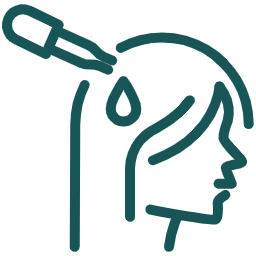
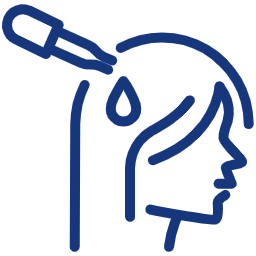
fix

Changed region(s): [[0.0, 0.0, 1.0, 1.0], [0.25, 0.3125, 0.3438, 1.0], [0.4062, 0.2812, 0.5625, 0.5]]

diff --git a/index.html b/index.html
@@ -4,12 +4,7 @@
 <head>
   <!-- Site Title-->
   <title>Home</title>
-  <meta name="format-detection" content="telephone=no">
-  <meta name="viewport"
-    content="width=device-width, height=device-height, initial-scale=1.0, maximum-scale=1.0, user-scalable=0">
-  <meta http-equiv="X-UA-Compatible" content="IE=edge">
-  <meta charset="utf-8">
-  <link rel="icon" href="assets/images/favicon.ico" type="image/x-icon">
+
   <!-- Stylesheets-->
   <link rel="stylesheet" type="text/css"
     href="//fonts.googleapis.com/css?family=Roboto+Mono:300,300italic,400,700%7CArvo:400,700">
@@ -17,7 +12,6 @@
   <link rel="stylesheet" href="assets/css/style.css">
   <link rel="stylesheet" href="assets/css/custom.css">
 
-  <script src="assets/js/main.js"></script>
 </head>
 
 <body>
@@ -120,12 +114,12 @@
               </div>
               <div class="col-xs-4">
                 <figure class="figure-fullwidth">
-                  <img data-i18n="whoWeAre.src2" data-i18n-attr="src" alt="" width="300"height="460" />
+                  <img data-i18n="whoWeAre.src2" data-i18n-attr="src" alt="" width="300" height="460" />
                 </figure>
               </div>
               <div class="col-xs-4">
                 <figure class="figure-fullwidth">
-                  <img data-i18n="whoWeAre.src3" data-i18n-attr="src" alt="" width="300"   height="460" />
+                  <img data-i18n="whoWeAre.src3" data-i18n-attr="src" alt="" width="300" height="460" />
                 </figure>
               </div>
             </div>
@@ -209,6 +203,8 @@
     <footer class="page-footer page-footer-default" id="footer-placeholder"></footer>
 
   </div>
+
+  <script src="assets/js/main.js"></script>
 
   <script src="assets/js/core.min.js"></script>
   <script src="assets/js/script.js"></script>

diff --git a/assets/js/main.js b/assets/js/main.js
@@ -7,16 +7,17 @@
 
   const currentPage = window.location.pathname.split("/").pop() || 'index.html';
 
-<<<<<<< HEAD
-  fetch("head.html")
+  fetch("metaHead.html")
     .then(response => response.text())
     .then(data => {
-      document.getElementById("head-placeholder").innerHTML += data;
+      var temp = document.createElement('div');
+      temp.innerHTML = data;
+      Array.from(temp.childNodes).forEach(function (node) {
+        document.head.appendChild(node.cloneNode(true));
+      });
     })
-    .catch(error => console.error("Error loading head:", error));
+    .catch(error => console.error("Error loading metaHead:", error));
 
-=======
->>>>>>> parent of 68db28b (removed unsed images and fixed head)
   fetch("footer.html")
     .then(response => response.text())
     .then(data => {